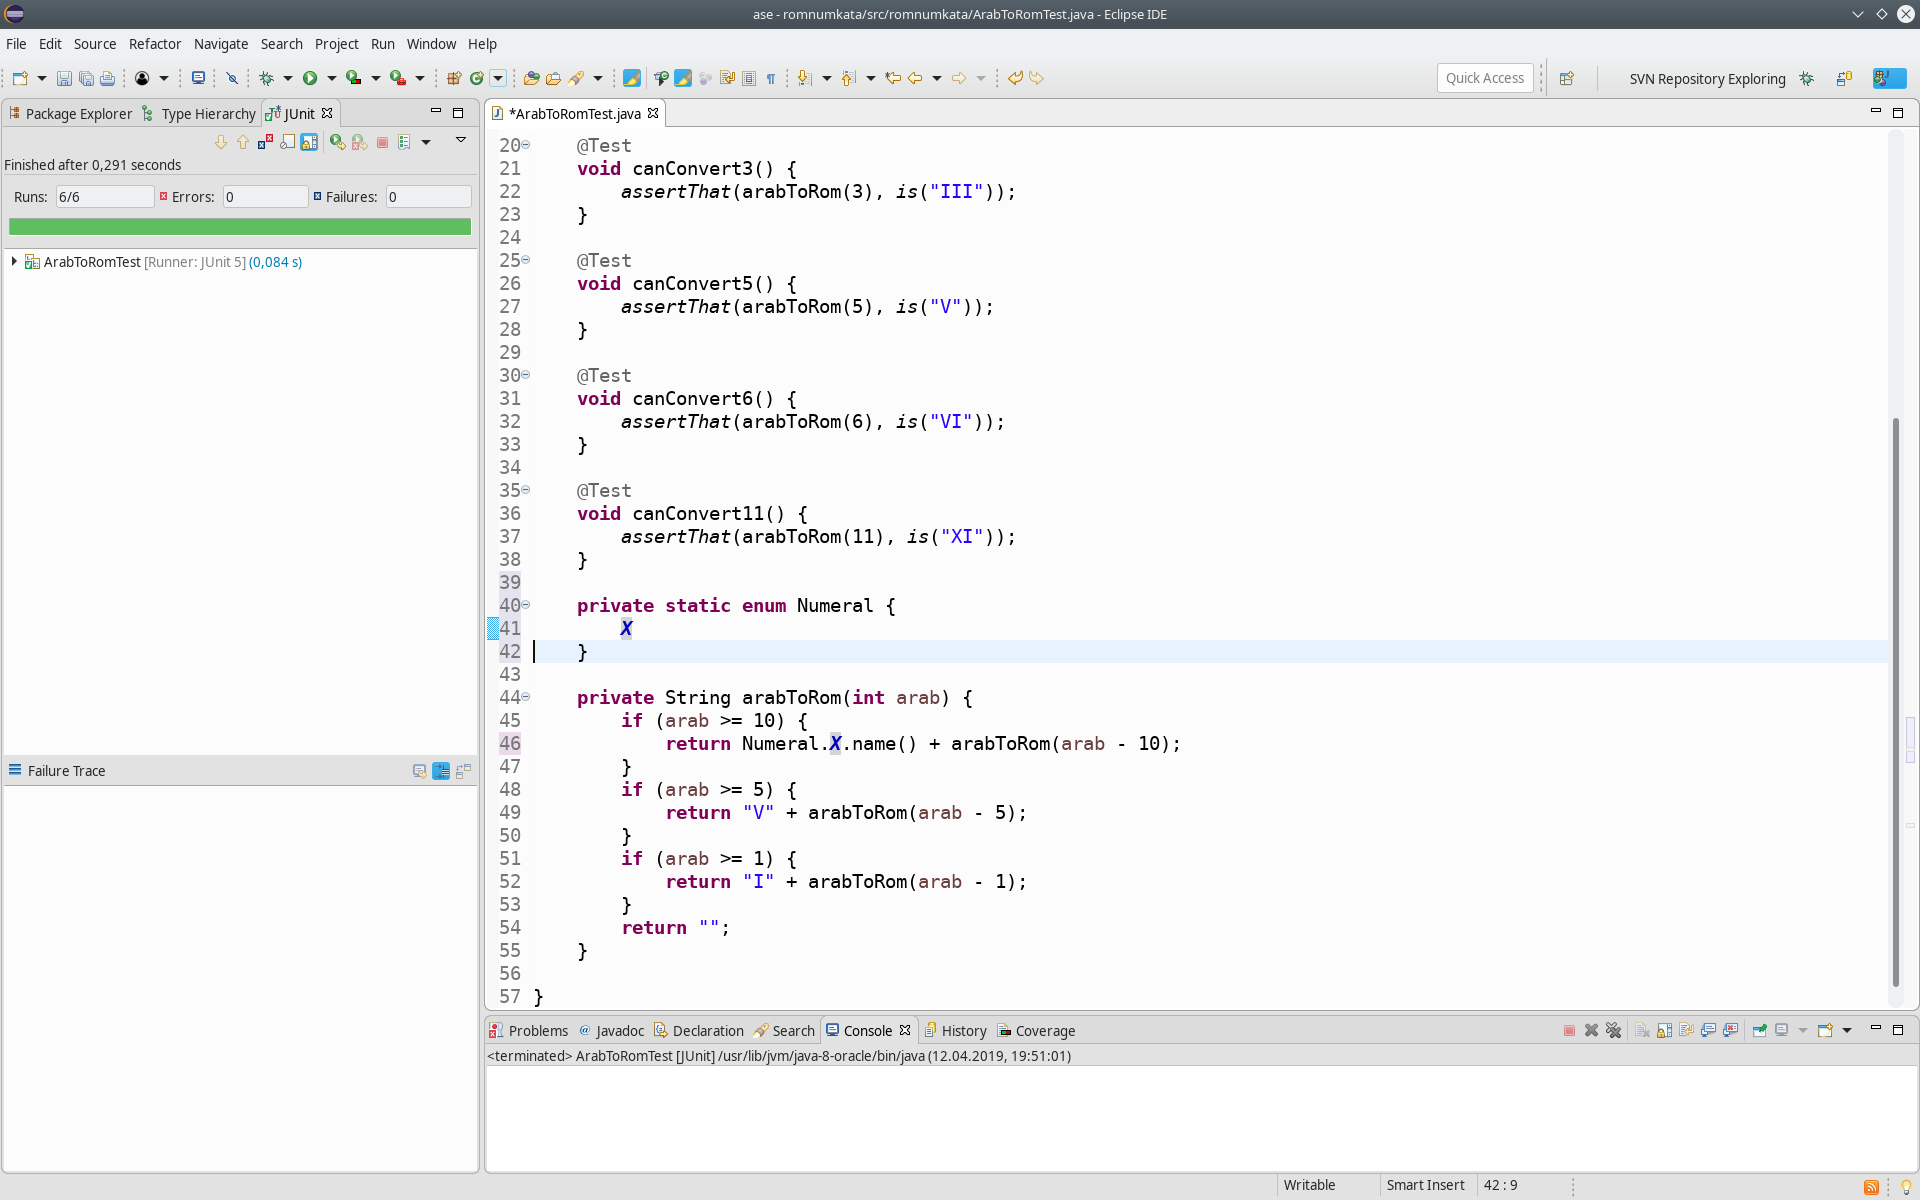
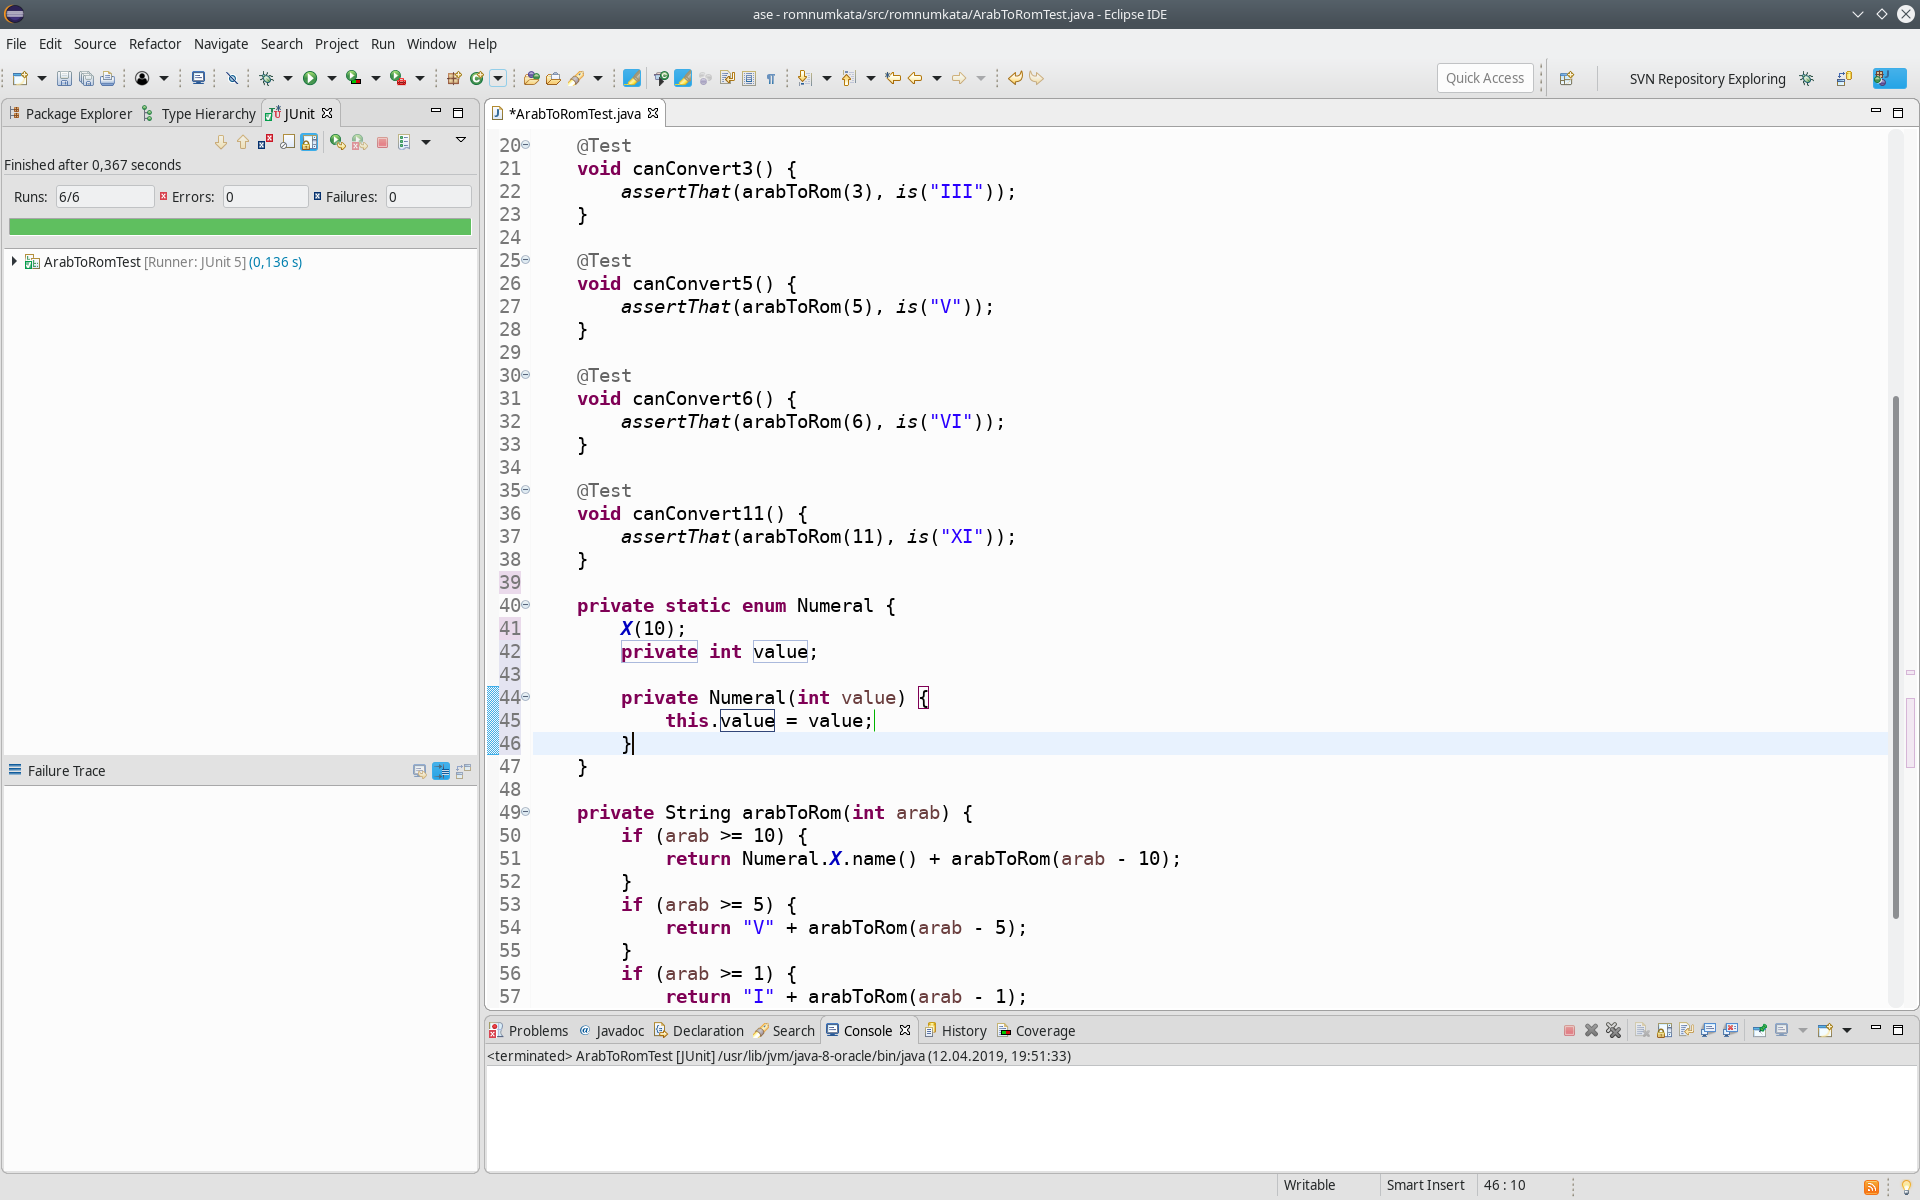
autocommit on change

Changed region(s): [[0.3125, 0.5242, 0.5625, 0.8325], [0.4375, 0.7708, 0.5, 0.8325], [0.5, 0.6167, 0.5625, 0.6475]]

diff --git a/src/romnumkata/ArabToRomTest.java b/src/romnumkata/ArabToRomTest.java
@@ -36,9 +36,14 @@ public class ArabToRomTest {
 	void canConvert11() {
 		assertThat(arabToRom(11), is("XI"));
 	}
-	
+
 	private static enum Numeral {
-		X
+		X(10);
+		private int value;
+
+		private Numeral(int value) {
+			this.value = value;
+		}
 	}
 
 	private String arabToRom(int arab) {
